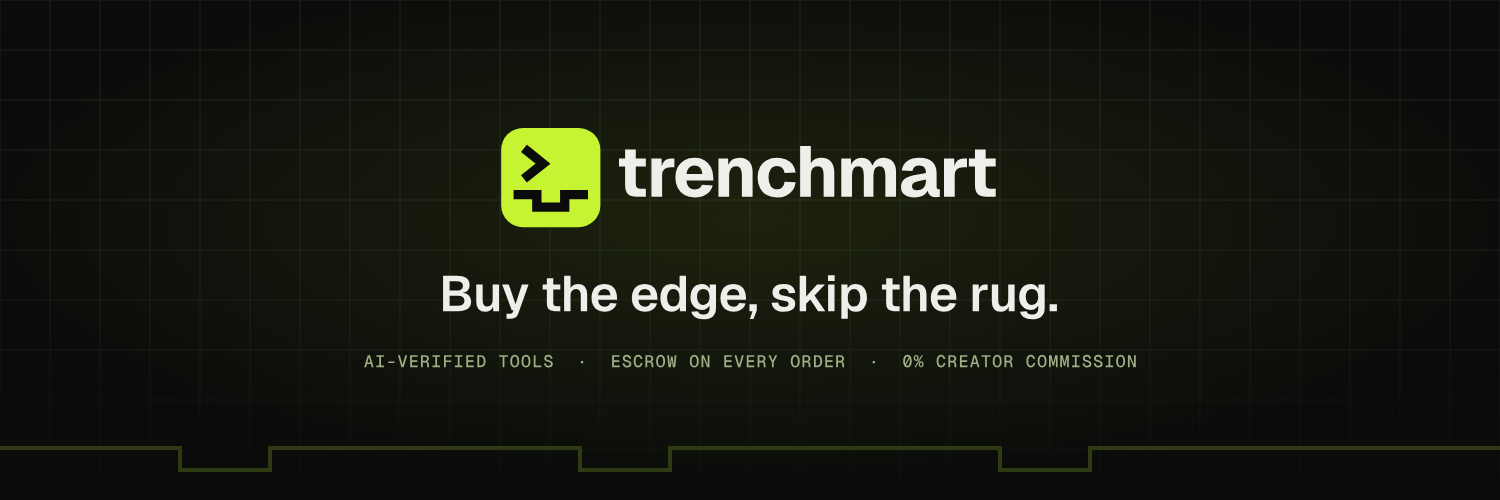
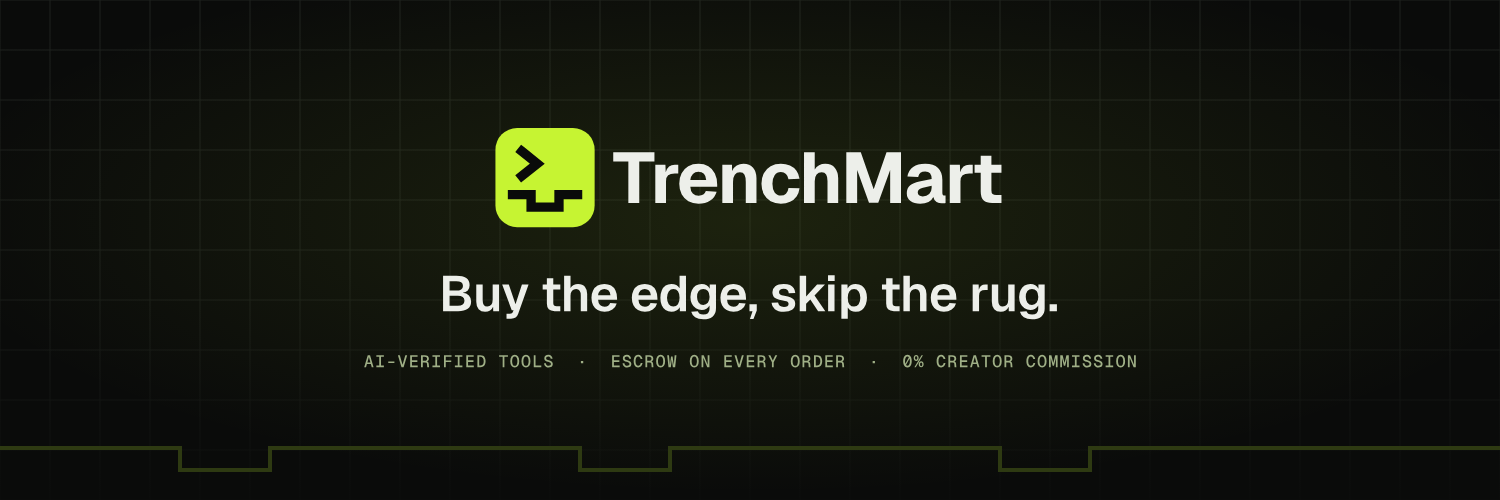
Set the external wordmark and X header as TrenchMart

Changed region(s): [[0.3067, 0.27, 0.6747, 0.45], [0.368, 0.27, 0.3987, 0.3]]

diff --git a/design/explorations/INDEX.md b/design/explorations/INDEX.md
@@ -29,3 +29,4 @@ One line per artifact: file — what it shows — question for the owner.
 - _Note (applied)_ — all seven come from the real running app (Playwright, `pnpm screenshots`, seeded devnet data); the same captures are used in `README.md` via `docs/screenshots/*.webp`. Question for owner: should the CI badge point at `main` (status appears after the merge) or at the build branch until then?
 - `18-logo-concepts.png` — Logo concepts A–G at 16, 32 and 128 px. A: plain prompt `›_`. B and F: prompt over a dug trench. D: prompt with the cursor line dipping into a trench. E: negative-space T (a slot dug into the ground). G: an inverted lime-on-black version. D was picked: it reads as both a terminal and a trench at 32 px, and it isn't a generic terminal icon. E was striking, but its dark half disappears on #0A0B0A.
 - `19-logo-refinement.png` — Refinement of D on the real background: rounded versus square caps and stroke weights. D2 was chosen: square caps and mitred joins (terminal, pixel-grid feel), 6-unit strokes on a 64 grid snapped so the 32 px favicon lands on whole pixels. Final files are in `brand/` (`logo-mark.svg`, `logo-wordmark.svg`, `logo-wordmark-light.svg`, X avatar and header, favicon), rendered by `pnpm brand`. Question for owner: keep the lowercase "trenchmart" wordmark used in the app, or set it as "TrenchMart"?
+- _Note (owner decision: wordmark casing)_ — external wordmarks (`brand/logo-wordmark*.svg`, the X header) are set as "TrenchMart", with the cap height centred on the mark. The in-app header keeps the lowercase "trenchmart", which matches the app's lowercase UI.
